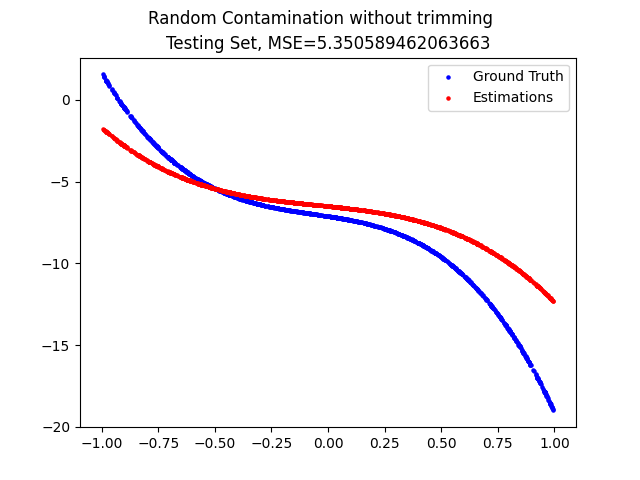
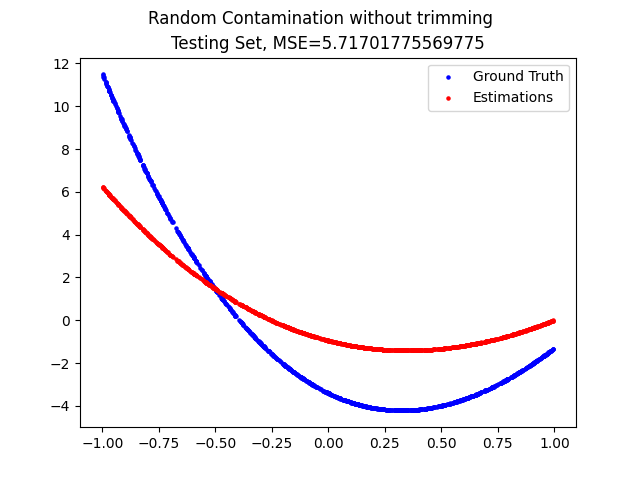
edge

diff --git a/main.py b/main.py
@@ -330,11 +330,13 @@ def test_edge_contamination(
     Y_contamination = rng.uniform(y_training.min(), y_training.min() + (y_training.max() - y_training.min())/10, contamination_size)
     X_training[contaminated_indices] = X_contamination
     y_training[contaminated_indices] = Y_contamination
-    contaminated_indices = rng.choice(training_size, contamination_size, False)
-    X_contamination = power_expand(rng.uniform(X_training[:, 0].min(), X_training[:, 0].min() + (X_training[:, 0].max() - X_training[:, 0].min())/10, contamination_size), power)
-    Y_contamination = rng.uniform(y_training.max() - (y_training.max() - y_training.min())/10, y_training.max(), contamination_size)
-    X_training[contaminated_indices] = X_contamination
-    y_training[contaminated_indices] = Y_contamination
+    contaminated_indices2 = rng.choice(training_size, contamination_size, False)
+    X_contamination2 = power_expand(rng.uniform(X_training[:, 0].min(), X_training[:, 0].min() + (X_training[:, 0].max() - X_training[:, 0].min())/10, contamination_size), power)
+    Y_contamination2 = rng.uniform(y_training.max() - (y_training.max() - y_training.min())/10, y_training.max(), contamination_size)
+    X_training[contaminated_indices2] = X_contamination2
+    y_training[contaminated_indices2] = Y_contamination2
+    
+    contaminated_indices = np.concatenate([contaminated_indices, contaminated_indices2])
     X_testing, y_testing = generate_X_and_y_with_w(w, x_low, x_high, testing_size, 0)
     test_model(
         X_training,
